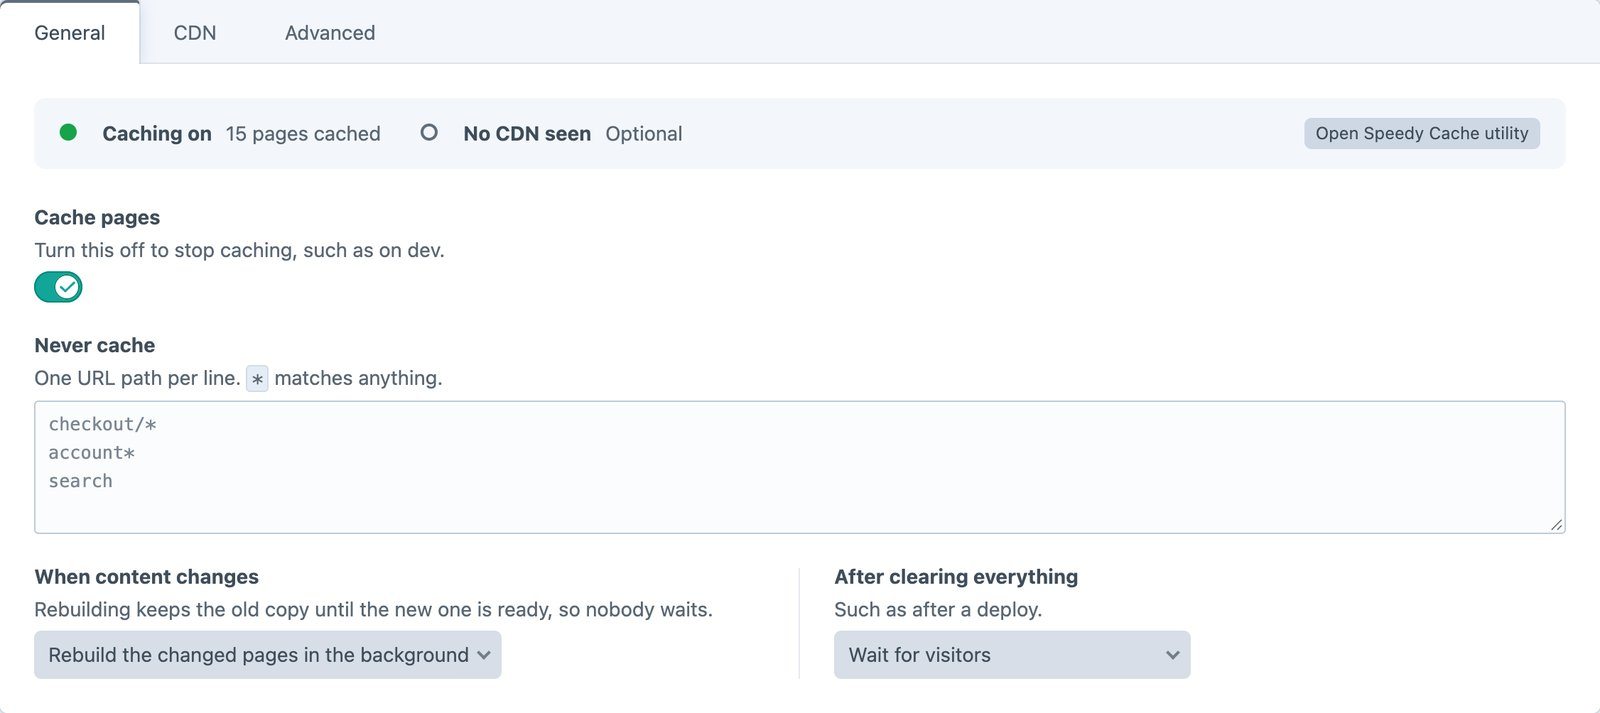
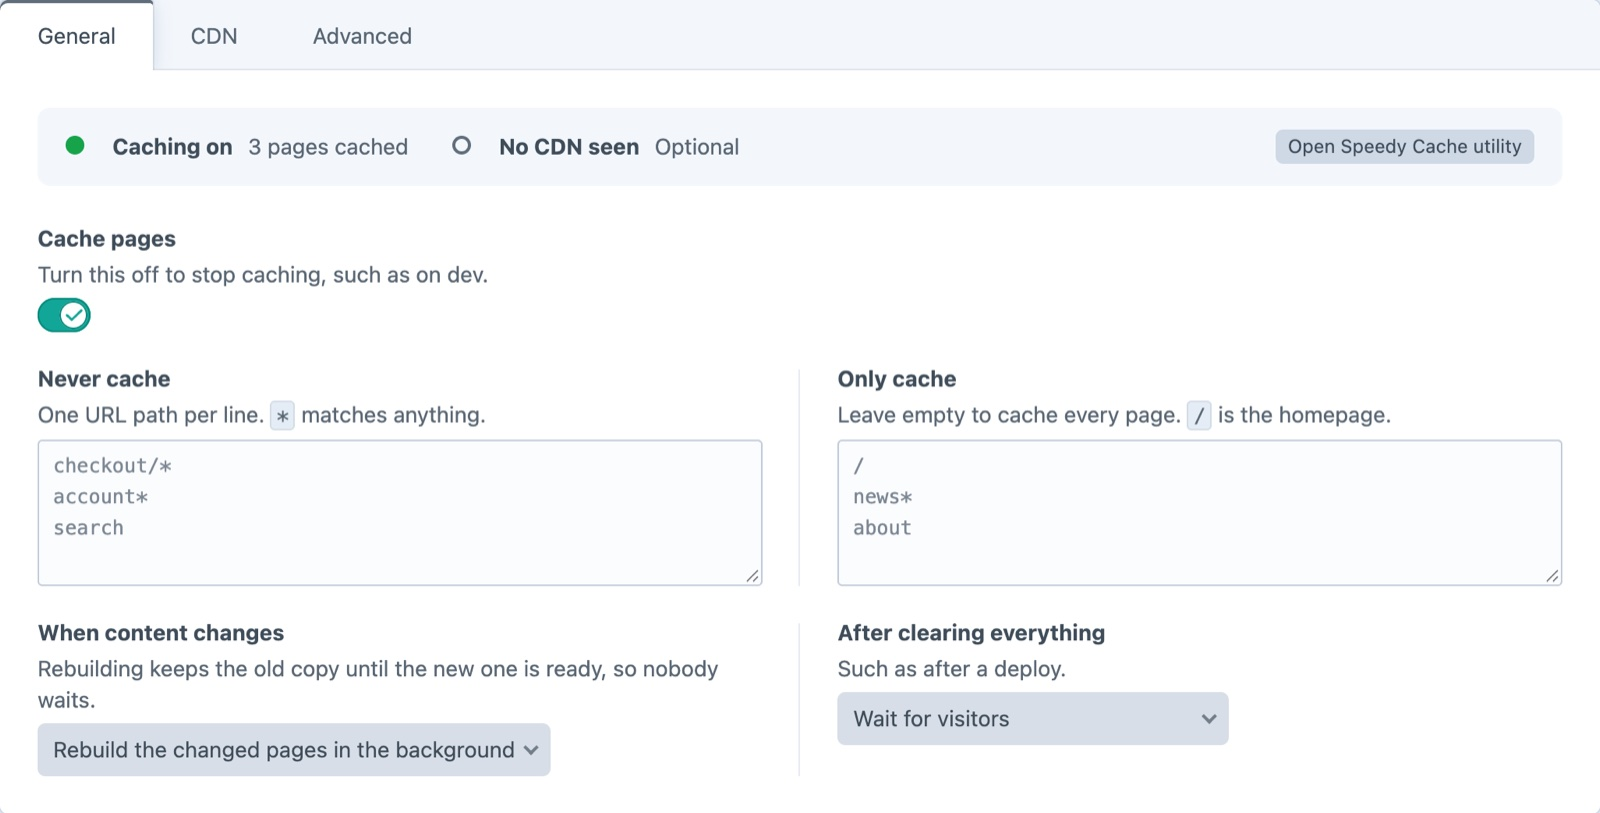
Show Only cache in the settings screenshot

diff --git a/docs/src/getting-started/configuration.md b/docs/src/getting-started/configuration.md
@@ -6,7 +6,7 @@ The settings page (**Settings → Plugins → Speedy Cache**) has three tabs:
 - **CDN:** your Cloudflare and CloudFront details, and whether Speedy has seen your site behind either.
 - **Advanced:** the [API](/guides/api) key, with a button to generate one, and the options below that are only set in `config/speedy.php`, with the values in use now.
 
-![Speedy Cache settings, General tab: a status strip, Cache pages, Never cache, When content changes and After clearing everything](/images/settings.jpg)
+![Speedy Cache settings, General tab: a status strip, Cache pages, Never cache, Only cache, When content changes and After clearing everything](/images/settings.jpg)
 
 ![The Advanced tab: cache storage, the API key and the options set in config/speedy.php](/images/settings-advanced.jpg)
 
